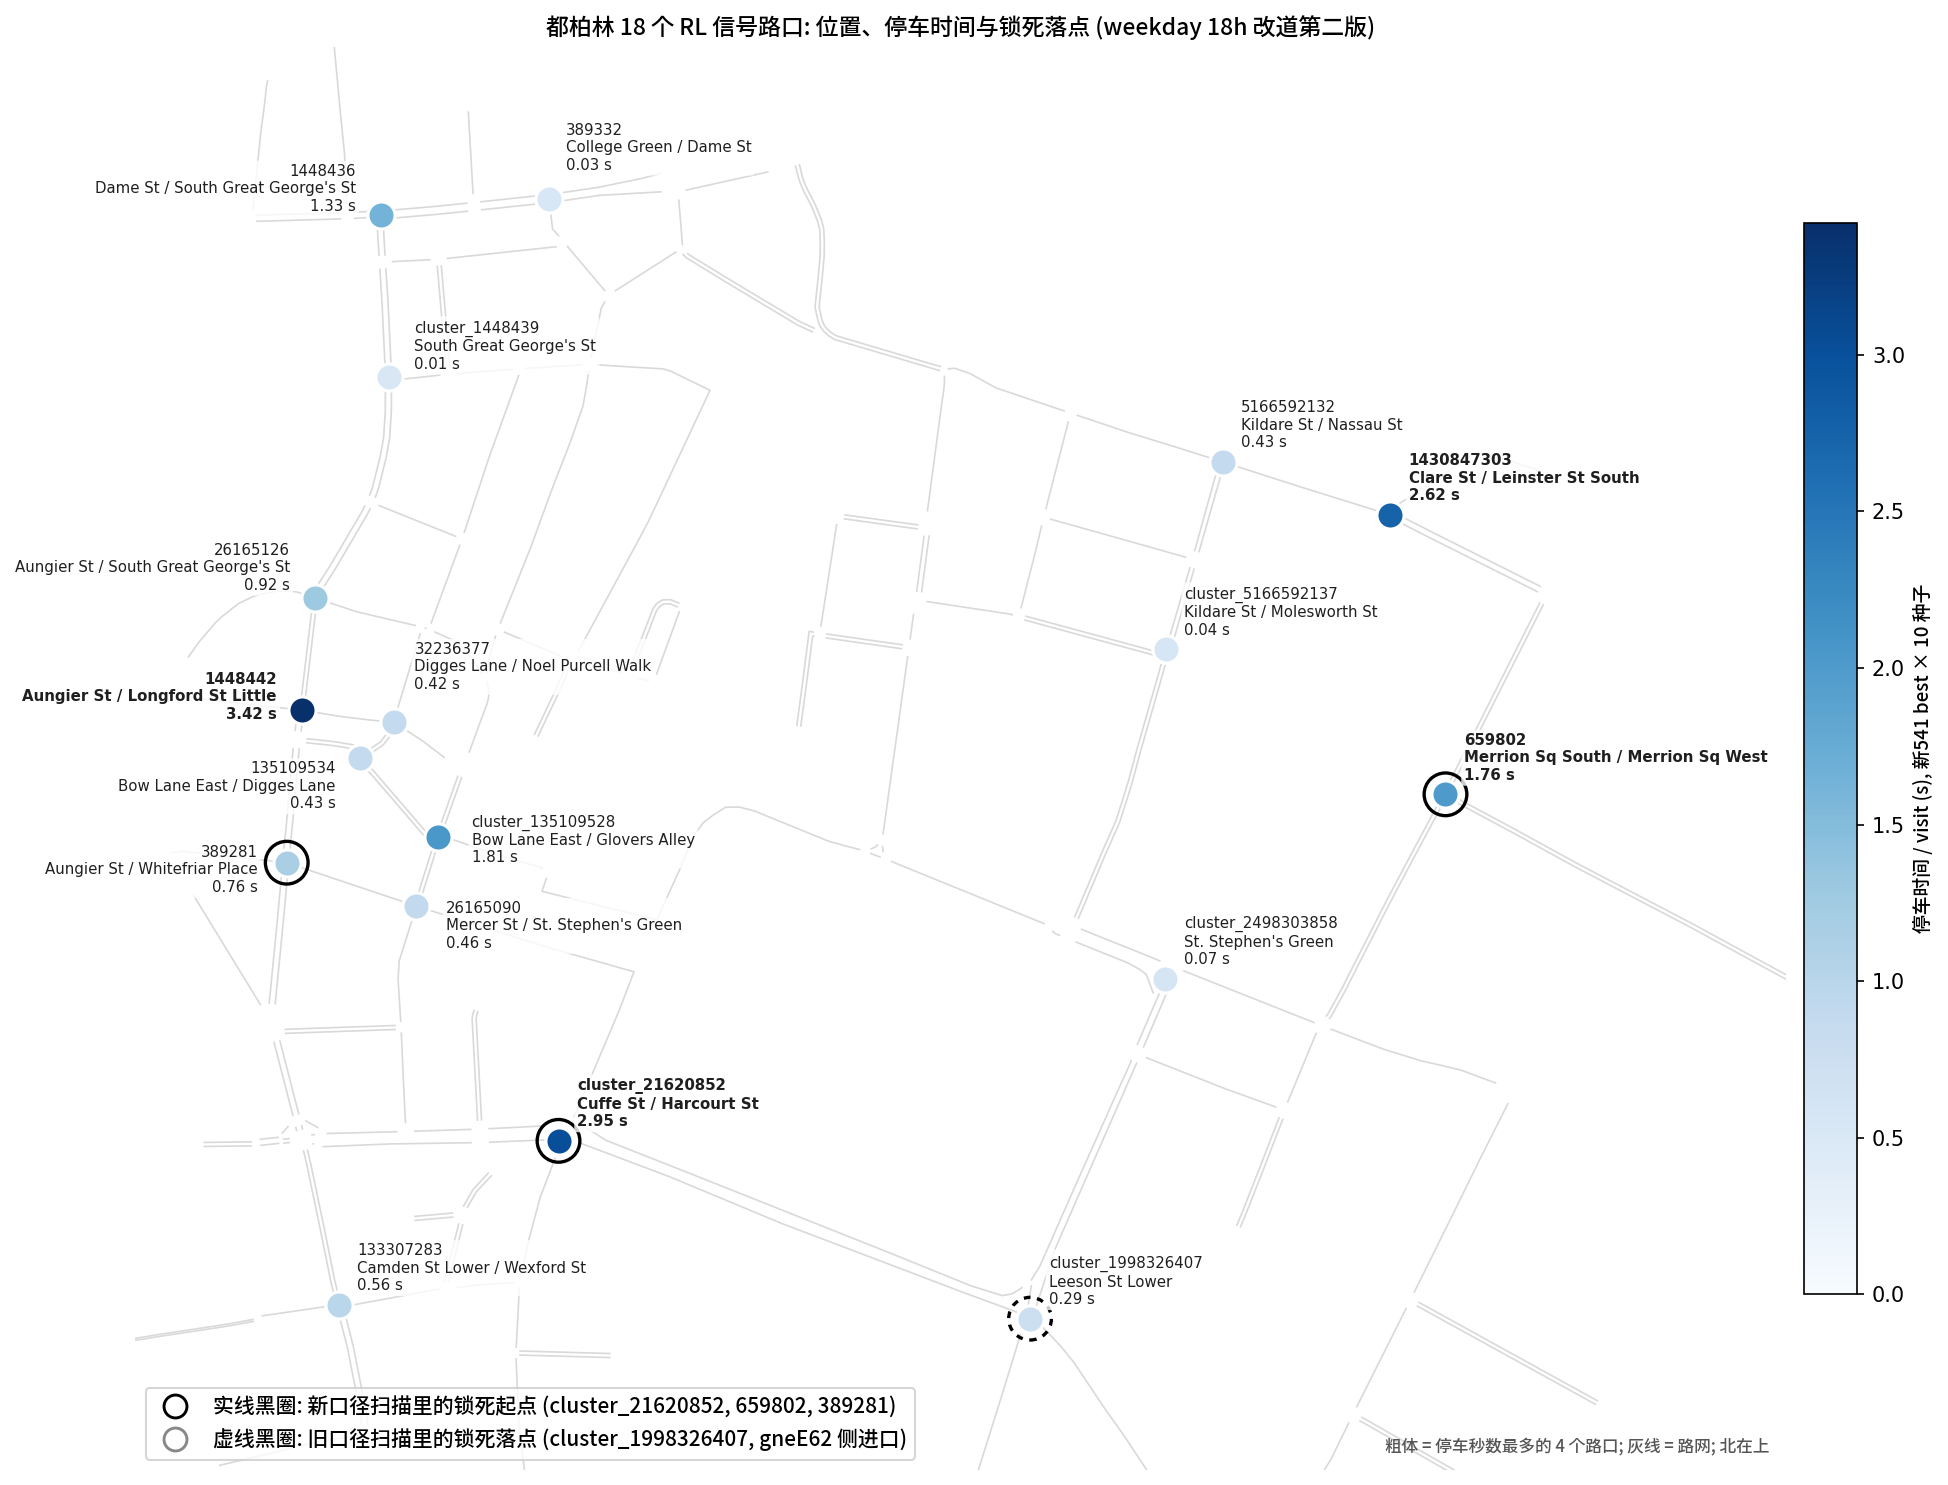
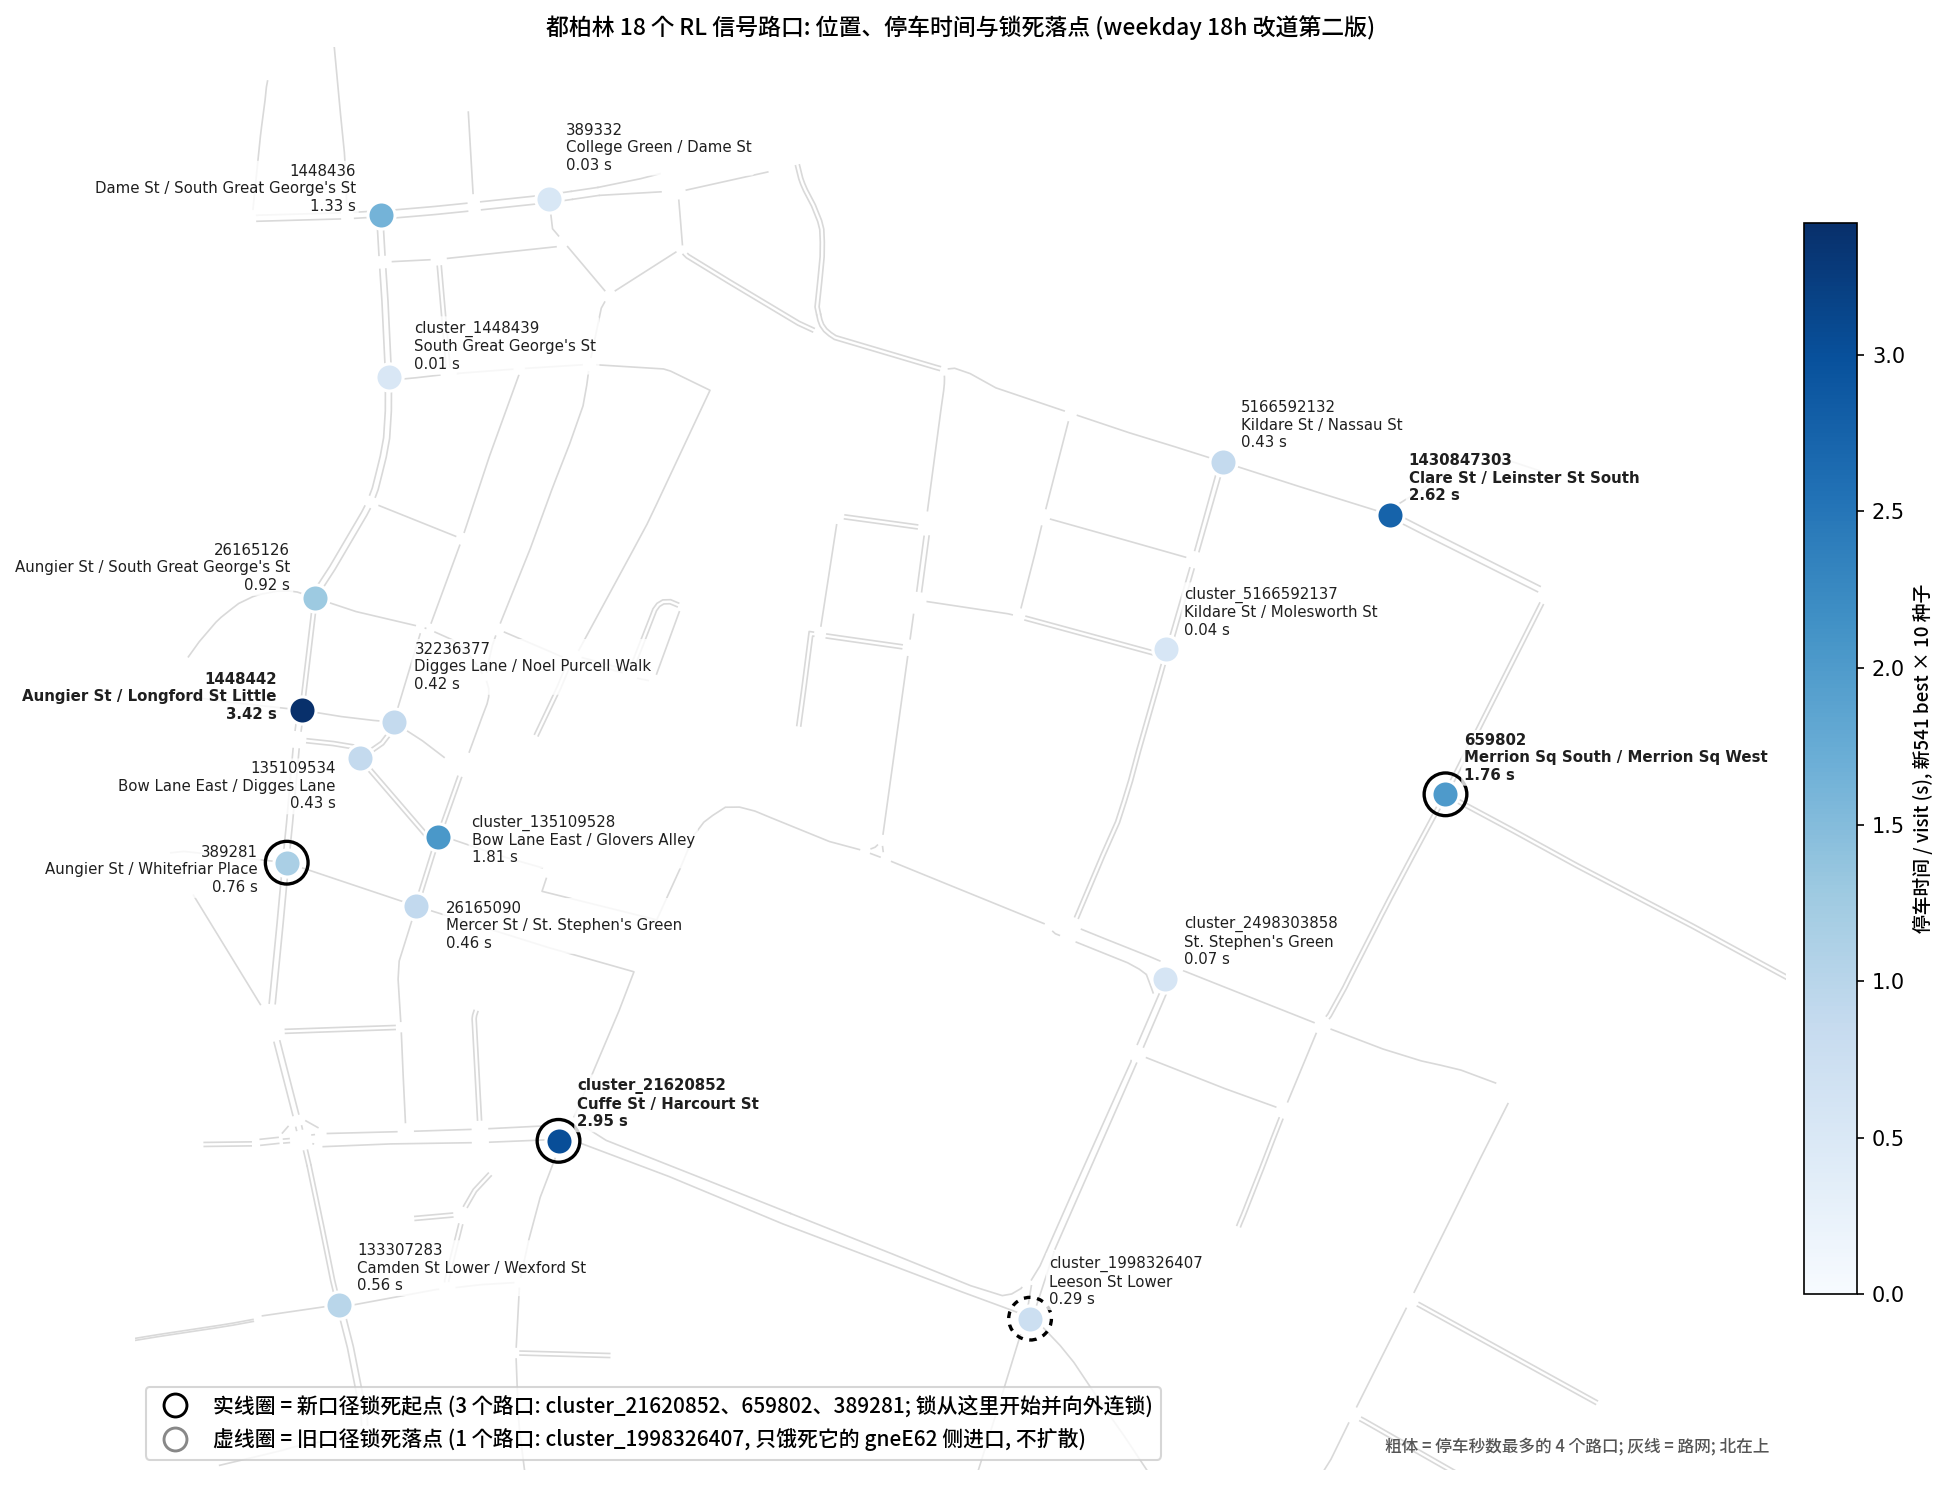
位置图图例改清楚: 新口径 3 个锁死起点 (向外连锁) 对 旧口径 1 个锁死落点 (cluster_1998326407 只饿死 gneE62 侧进口, 不扩散)

Changed region(s): [[0.1232, 0.9293, 0.5852, 0.9912]]

diff --git a/experiments/tools/dublin/lock_audit/junction_map.py b/experiments/tools/dublin/lock_audit/junction_map.py
@@ -44,8 +44,8 @@ pad = 120; ax.set_xlim(min(p[0] for p in pts.values()) - pad, max(p[0] for p in 
 ax.set_aspect("equal"); ax.set_xticks([]); ax.set_yticks([]); [s.set_visible(False) for s in ax.spines.values()]
 sm = plt.cm.ScalarMappable(cmap=cmap, norm=norm); sm.set_array([]); cb = fig.colorbar(sm, ax=ax, fraction=0.03, pad=0.01); cb.set_label("停车时间 / visit (s), 新541 best × 10 种子" if CJK else "Stopped time / visit (s), new-541 best x 10 seeds", fontsize=9, fontproperties=CJK)
 from matplotlib.lines import Line2D
-ax.legend(handles=[Line2D([], [], marker="o", color="#000000", markerfacecolor="none", markersize=11, lw=0, markeredgewidth=1.4, label="实线黑圈: 新口径扫描里的锁死起点 (cluster_21620852, 659802, 389281)"),
-                   Line2D([], [], marker="o", color="#888888", markerfacecolor="none", markersize=11, lw=0, markeredgewidth=1.4, label="虚线黑圈: 旧口径扫描里的锁死落点 (cluster_1998326407, gneE62 侧进口)")],
+ax.legend(handles=[Line2D([], [], marker="o", color="#000000", markerfacecolor="none", markersize=11, lw=0, markeredgewidth=1.4, label="实线圈 = 新口径锁死起点 (3 个路口: cluster_21620852、659802、389281; 锁从这里开始并向外连锁)"),
+                   Line2D([], [], marker="o", color="#888888", markerfacecolor="none", markersize=11, lw=0, markeredgewidth=1.4, label="虚线圈 = 旧口径锁死落点 (1 个路口: cluster_1998326407, 只饿死它的 gneE62 侧进口, 不扩散)")],
           loc="lower left", fontsize=8, frameon=True, prop=CJK)
 ax.set_title("都柏林 18 个 RL 信号路口: 位置、停车时间与锁死落点 (weekday 18h 改道第二版)" if CJK else "Dublin: 18 RL signalised junctions, stopped time and lock locations (weekday 18h reroute v2)", fontsize=11, fontproperties=CJK)
 ax.text(0.99, 0.01, "粗体 = 停车秒数最多的 4 个路口; 灰线 = 路网; 北在上" if CJK else "bold = 4 junctions with most stopped seconds; grey = network; north up", transform=ax.transAxes, ha="right", va="bottom", fontsize=8, color="#555555", fontproperties=CJK)
